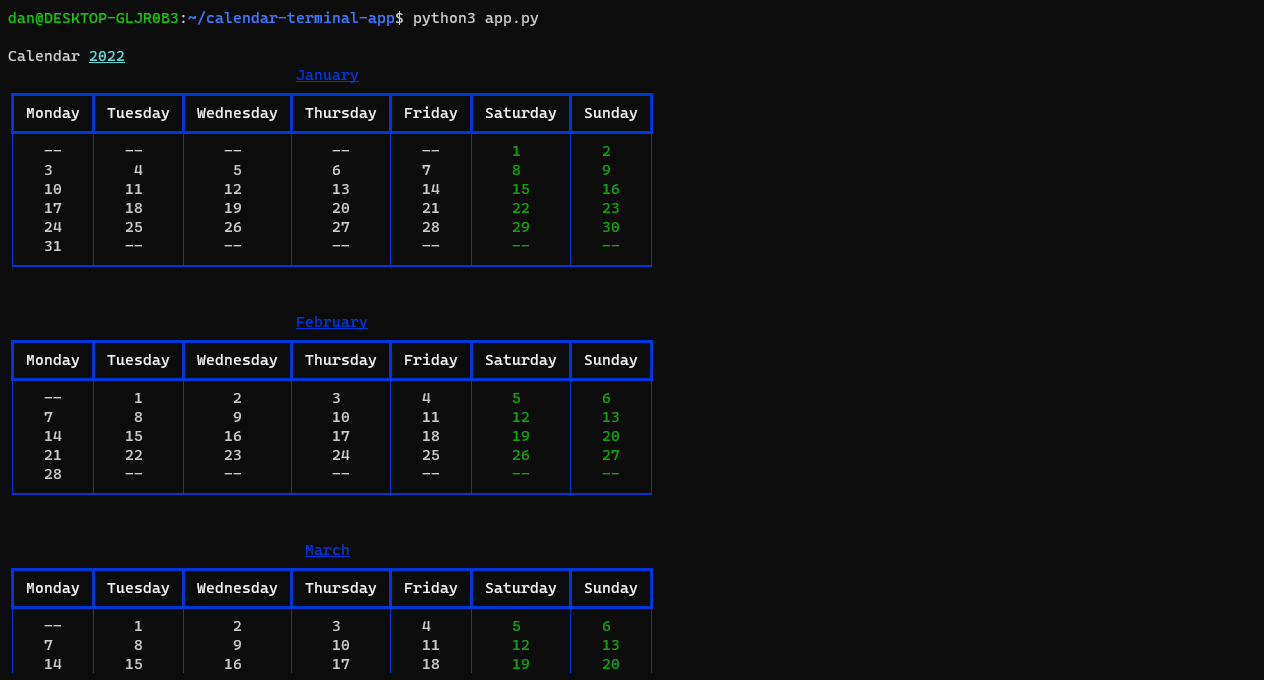
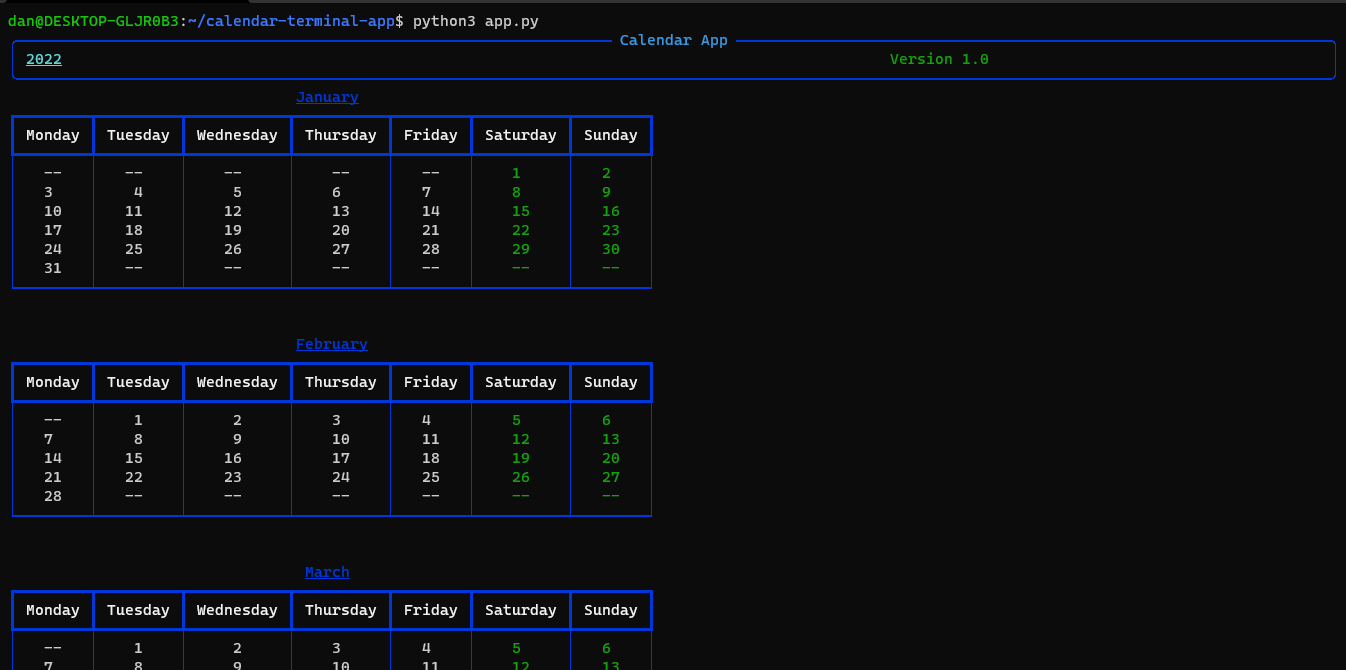
panels and configuration added

diff --git a/helpers/utils.py b/helpers/utils.py
@@ -5,18 +5,22 @@ Utils functions or data to use
 from rich.console import Console
 from rich.text import Text
 from rich.theme import Theme
+from rich.panel import Panel
+from rich import print
+from config import NAME, VERSION
 from messages import errors
 
 # console for use to show messages
 console = Console()
 text = Text()
 
+# testing
 # theme for message
-message_theme = Theme(
-  {
-    'message': 'blue'
-  }
-)
+# message_theme = Theme(
+#   {
+#     'message': 'blue'
+#   }
+# )
 
 
 def show_year_invalid() -> None:
@@ -25,14 +29,14 @@ def show_year_invalid() -> None:
   is invalid.
   """
 
-  console = Console(theme = message_theme)
 
-  message = Text(errors.YEAR_INVALID)
-  message.stylize('bold red', 0 , 43)
-  message.stylize('bold underline green', 44, 54)
-  console.print('\n================== CALENDAR APP =====================', style = 'message')
-  console.print(message)
-  console.print('=====================================================\n', style = 'message')
+  message = errors.YEAR_INVALID
+  panel = Panel(
+    f'[red]{message}[/red]\t\t\t\t\t\t\t\t\t[green]Version {VERSION}[/green]',
+    title = NAME,
+    border_style="blue"
+  )
+  print(panel)
 
 def show_month_invalid() -> None:
   """
@@ -40,11 +44,10 @@ def show_month_invalid() -> None:
   is invalid.
   """
 
-  console = Console(theme = message_theme)
-
-  message = Text(errors.MONTH_INVALID)
-  message.stylize('bold red', 0 , 43)
-  message.stylize('bold underline green', 45, 55)
-  console.print('\n================== CALENDAR APP =====================', style = 'message')
-  console.print(message)
-  console.print('=====================================================\n', style = 'message')
+  message = errors.MONTH_INVALID
+  panel = Panel(
+    f'[red]{message}[/red]\t\t\t\t\t\t\t\t\t[green]Version {VERSION}[/green]',
+    title = NAME,
+    border_style="blue"
+  )
+  print(panel)

diff --git a/show.py b/show.py
@@ -5,9 +5,12 @@ for show the calendar.
 
 from rich.table import Table
 from rich.text import Text
+from rich.panel import Panel
+from rich import print
 from models.mycalendar import MyCalendar
 from helpers.utils import console
 from data.months import MONTHS
+from config import VERSION, NAME
 
 
 def change_days_year(data: list):
@@ -96,7 +99,15 @@ def show_calendar(calendar: MyCalendar):
     year, month, data = select_data(calendar)
 
     if month == "all":
-        console.print(f"\nCalendar [bold underline]{year}[/bold underline]")
+        # console.print(f"\nCalendar )
+        panel = Panel(
+            f"[cyan bold underline]{year}[/]\t\t\t\t\t\t\t\t\t\t\t\t[green]Version {VERSION}[/green]",
+            title = f'[cyan]{NAME}[/cyan]',
+            border_style='blue'
+        )
+
+        print(panel)
+
         for idx, month in enumerate(data):
             message = create_month_message(MONTHS[idx])
 
@@ -129,9 +140,12 @@ def show_calendar(calendar: MyCalendar):
     else:
         month_name = get_name_month(month)
 
-        console.print(
-            f"\nCalendar [bold underline]{month_name}[/bold underline] [bold underline]{year}[/bold underline]"
+        panel = Panel(
+            f'[cyan bold underline]{year}[/]\t\t\t\t\t\t\t\t\t\t\t\t[green]Version {VERSION}[/green]',
+            title = f'[cyan]{NAME}[/cyan]',
+            border_style='blue'
         )
+        print(panel)
 
         month_name = create_month_message(month_name)
 

diff --git a/args.py b/args.py
@@ -7,6 +7,7 @@ with the arguments passed in the execution.
 from optparse import OptionParser
 from messages.help import YEAR_MESSAGE, MONTH_MESSAGE
 from datetime import datetime
+from messages.help import USAGE
 
 # functions of config
 get_date_current = lambda: {"year": str(datetime.now().year), "month": str(datetime.now().month)}
@@ -18,7 +19,7 @@ def get_options() -> tuple:
     and arguments passed for parameter.
     """
 
-    parser = OptionParser()
+    parser = OptionParser(usage = USAGE)
 
     parser.add_option(
         "-y",

diff --git a/messages/help.py b/messages/help.py
@@ -4,6 +4,9 @@ some messages for show in
 the help.
 """
 
+# usege message
+USAGE = 'python3 app.py [OPTIONS] [VALUES]'
+
 # messages
 YEAR_MESSAGE = 'The year for watch the calendar. For default is the year current in the system.'
 MONTH_MESSAGE = 'The specific month to display. For default is all the months.'

diff --git a/test/test-rich.py b/test/test-rich.py
@@ -1,0 +1,3 @@
+from rich import print
+from rich.panel import Panel
+print(Panel("Hello, [red]World!", title="Welcome", subtitle="Thank you"))

diff --git a/config.py b/config.py
@@ -1,0 +1,7 @@
+"""
+This file have some
+configurations for the program.
+"""
+
+VERSION = 1.0
+NAME = 'Calendar App'

diff --git a/README.md b/README.md
@@ -16,13 +16,9 @@ You must install the dependencies with the requirements file, executing:
 pip3 install -r requirements.txt
 ```
 
-# Run.
+# Run and Use.
 
 __Pass the year and the month for the calendar.__
-```bash
-python3 app.py -y 2020 -m 12
-python3 app.py --y 2017 -m 3
-```
 
 __For default the year is the year current in the system, and the months are alls.__
 
@@ -30,6 +26,13 @@ __For default the year is the year current in the system, and the months are all
 # for defaults values
 python3 app.py
 ```
+
+```bash
+python3 app.py -y 2020 -m 12
+python3 app.py --year 2018 -month 3
+```
+
+![use-image](./doc/use-image.png)
 
 __The month not must be 01, 02, 03, etc. Message error lauched.__
 
